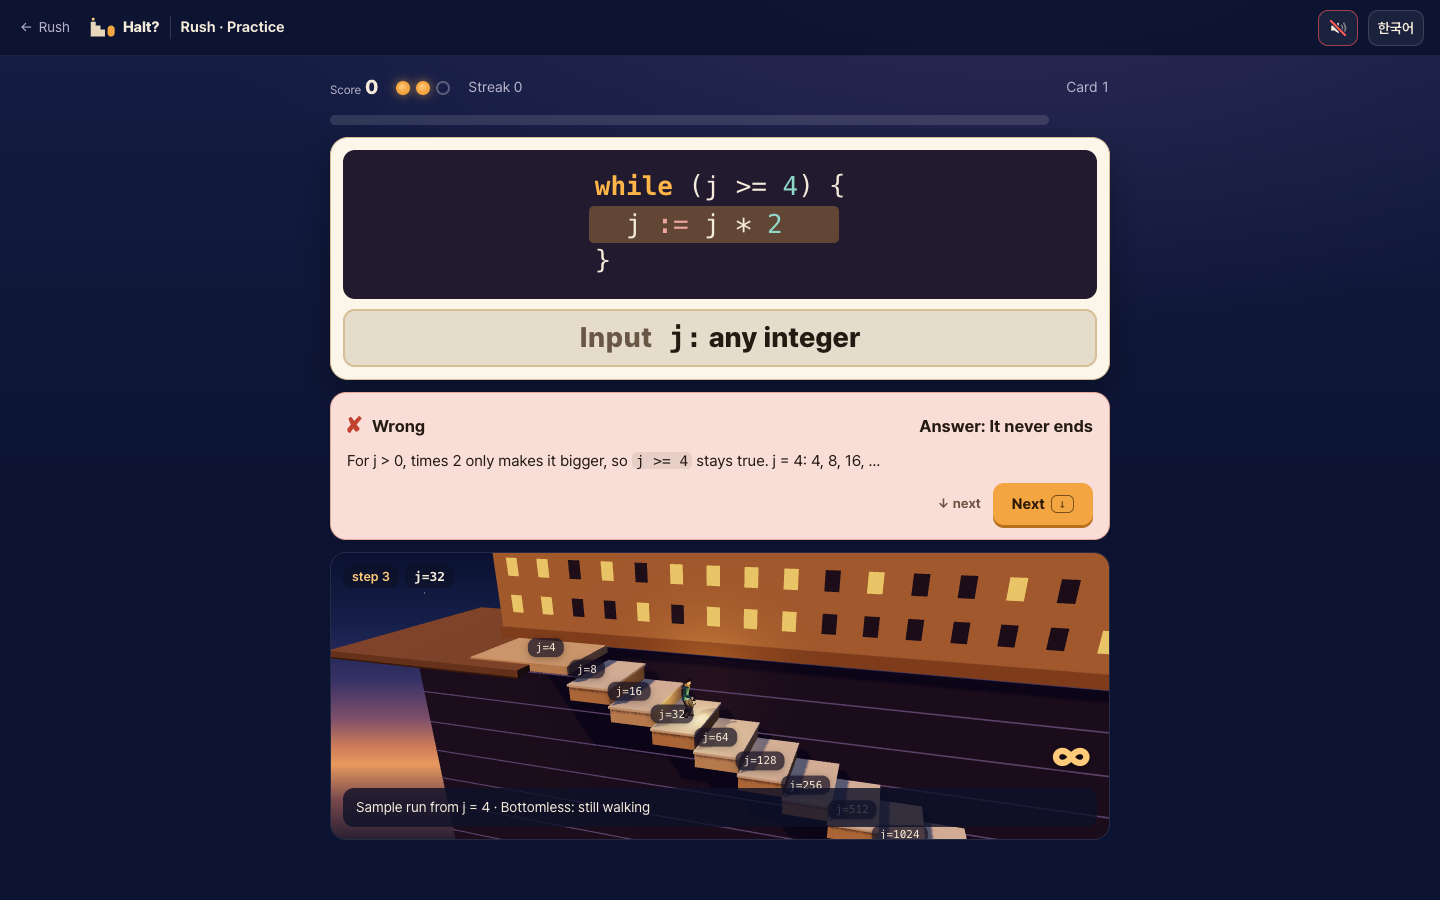
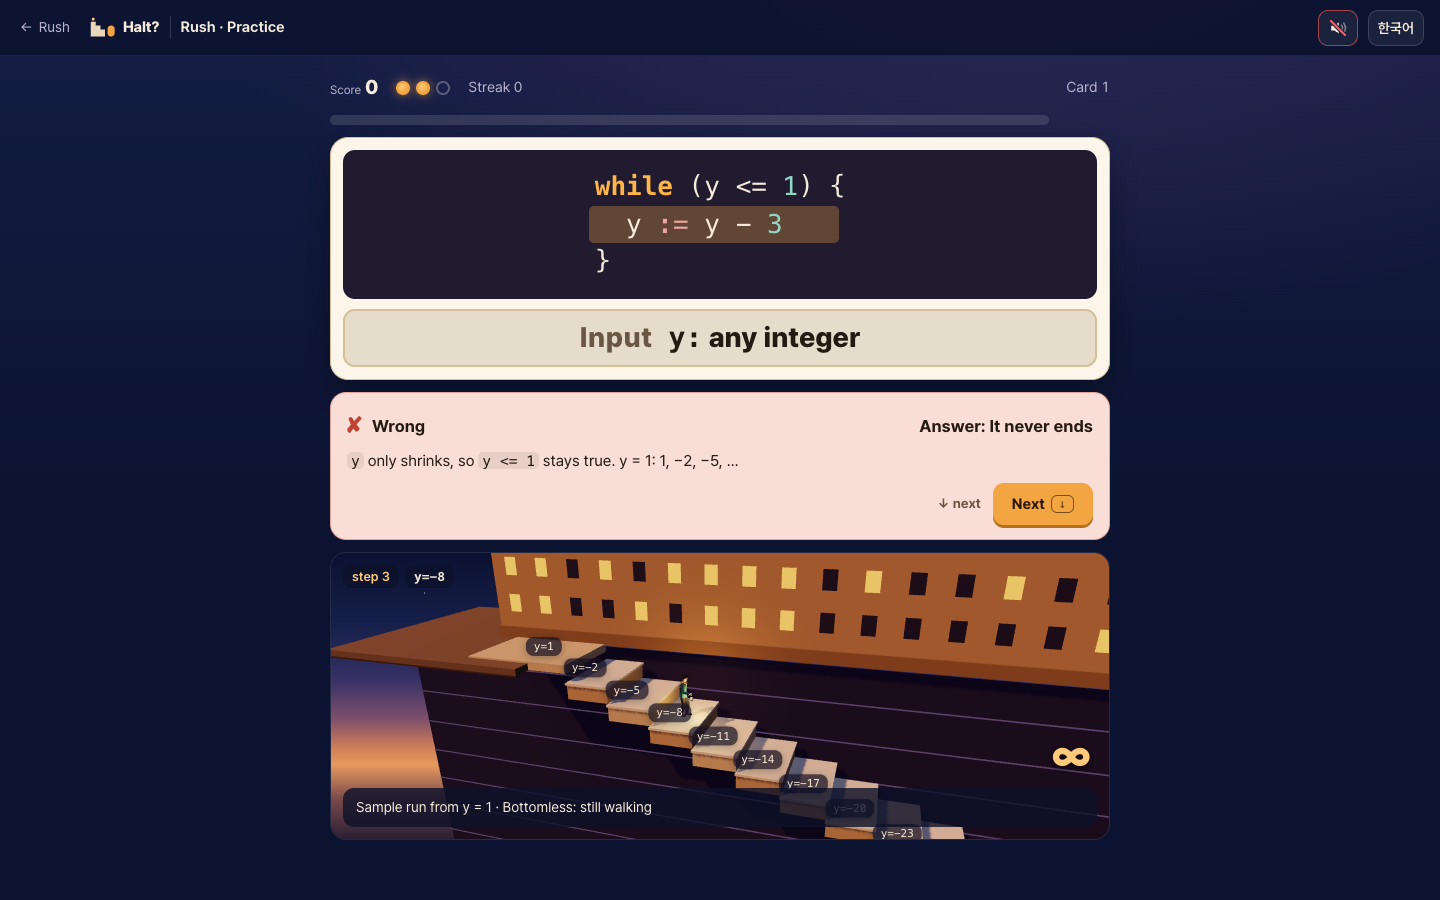
Hall of fame: top 10 only. README: no server section; English follows the author's Korean; rush screenshots show current cards

diff --git a/worker/src/index.ts b/worker/src/index.ts
@@ -3,7 +3,7 @@
 //   POST /nick        {token, nick}               → {nick}                    claim a nickname (or check it is ours)
 //   POST /run/start   {token, nick}               → {runId}                   claims or checks the nickname too
 //   POST /run/finish  {runId, token, answers}     → {score, cards, bestStreak, rank, best, bestRank, newBest, top}
-//   GET  /top?limit=50                            → [{rank, nick, score, cards, at}]   (cached 15 s)
+//   GET  /top?limit=10                            → [{rank, nick, score, cards, at}]   (cached 15 s)
 //   POST /me          {token, nick?}              → {nick, best, rank}
 //
 // The score of a run is recomputed here with the game's own rules; the client's numbers are never trusted.

diff --git a/worker/smoke.ts b/worker/smoke.ts
@@ -114,7 +114,7 @@ console.log(`ok   finish: score ${f1.json.score} (as the game), rank ${f1.json.r
 expect('run/finish the same run again', await req('POST', '/run/finish', { runId: runId1, token: tokenA, answers: first.answers }), 409, 'finished');
 
 // ------------------------------------------------------------ top and me
-const top = await req('GET', '/top?limit=50');
+const top = await req('GET', '/top?limit=10');
 expect('top', top, 200);
 checks++;
 assert.ok(Array.isArray(top.json) && top.json.length <= 50);

diff --git a/worker/src/logic.ts b/worker/src/logic.ts
@@ -11,8 +11,9 @@ export const START_GAP_MS = 3000;
 /** … and at most this many runs per token in 24 hours. */
 export const RUNS_PER_DAY = 300;
 export const DAY_MS = 24 * 60 * 60 * 1000;
-export const TOP_DEFAULT = 50;
-export const TOP_MAX = 50;
+/** The hall of fame lists the top 10 (author, 11/3: 50 was too many). */
+export const TOP_DEFAULT = 10;
+export const TOP_MAX = 10;
 
 export const ALLOWED_ORIGINS = ['https://halt-seven-delta.vercel.app'];
 

diff --git a/src/ui/rush.ts b/src/ui/rush.ts
@@ -47,8 +47,8 @@ export type RushMode = 'play' | 'practice';
 /** The last seconds of a card: the timer turns red. */
 const LOW_MS = 2000;
 /** Rows of the hall of fame shown at first, and after "show more". */
-const FAME_FIRST = 20;
-const FAME_ALL = 50;
+const FAME_FIRST = 10;
+const FAME_ALL = 10; // the hall of fame shows the top 10 (author, 11/3)
 
 const verdictLabel = (v: RushVerdict) => t(v === 'ends' ? 'verdictEnds' : 'verdictNever');
 

diff --git a/test/rushServer.test.ts b/test/rushServer.test.ts
@@ -76,7 +76,7 @@ describe('score server: abuse limits', () => {
   });
 
   it('the top list is at most 50 long', () => {
-    assert.deepEqual([topLimit(null), topLimit('20'), topLimit('500'), topLimit('-1'), topLimit('abc')], [50, 20, 50, 50, 50]);
+    assert.deepEqual([topLimit(null), topLimit('5'), topLimit('500'), topLimit('-1'), topLimit('abc')], [10, 5, 10, 10, 10]);
   });
 });
 

diff --git a/src/ui/fame.ts b/src/ui/fame.ts
@@ -7,7 +7,7 @@ import { t } from './i18n.ts';
 import { scores, type FameRow } from './scores.ts';
 
 /** How many rows the screen of its own loads. */
-const FAME_ROWS = 50;
+const FAME_ROWS = 10;
 
 /** "🏆 Hall of fame" heading. */
 export function fameTitle(tag: 'h1' | 'h2' = 'h2'): HTMLElement {

diff --git a/README.md b/README.md
@@ -140,7 +140,7 @@ Z3는 예시 실행뿐 아니라 반복 조건이 참인 모든 상태를 검사
 **명예의 전당**
 
 - 처음 들어갈 때 닉네임을 정하면, 판이 끝날 때 점수가 온라인 명예의 전당에 올라갑니다.
-- 명예의 전당은 닉네임마다 최고 점수를 보여 줍니다. 기록은 지워지지 않습니다. 상위 50명까지 나옵니다.
+- 명예의 전당은 닉네임마다 최고 점수를 보여 줍니다. 기록은 지워지지 않습니다. 상위 10명까지 나옵니다.
 - 닉네임은 2자에서 12자이고 한글, 영문, 숫자, 빈칸, `_`, `-`를 쓸 수 있습니다. 욕설은 막습니다.
 - 닉네임은 그 닉네임을 처음 쓴 기기에서만 쓸 수 있습니다.
 - 순위에 들어가지 않는 **연습**도 있습니다. 연습은 서버와 전혀 통신하지 않습니다.
@@ -154,7 +154,7 @@ Z3는 예시 실행뿐 아니라 반복 조건이 참인 모든 상태를 검사
 
 | 러시 모드 | 명예의 전당 |
 |---|---|
-| ![러시 연습: 카드의 코드 while (k < 9) { k := k + 2 − 5 }와 입력 조건 'k: 아무 정수'가 크게 나오고, 답한 뒤 틀렸다는 표시, 정답 '안 끝난다', 이유 한 줄이 보이며, 아래 무대에서는 사람이 k = 8부터 끝없이 내려간다](docs/screenshot-rush.png) | ![명예의 전당: 트로피가 붙은 제목 아래 순위, 닉네임, 점수, 카드 수가 가운데 정렬된 표](docs/screenshot-fame.png) |
+| ![러시 연습: 카드의 코드 while (n != 5) { n := -n }과 입력 조건 'n: 아무 정수'가 크게 나오고, 답한 뒤 틀렸다는 표시, 정답 '안 끝난다', 이유 한 줄이 보이며, 아래 무대에서는 사람이 n = 6부터 둥근 탑 위를 계속 돈다](docs/screenshot-rush.png) | ![명예의 전당: 트로피가 붙은 제목 아래 순위, 닉네임, 점수, 카드 수가 가운데 정렬된 표](docs/screenshot-fame.png) |
 
 ### 개념 ↔ 게임
 
@@ -187,22 +187,6 @@ Z3는 예시 실행뿐 아니라 반복 조건이 참인 모든 상태를 검사
 - 질의마다 Z3 시간 제한은 5초입니다. 넘으면 "판정기가 결정하지 못했어요"라고 알리고 시도 횟수에 넣지 않습니다.
 
 `/`와 `%`는 판정기와 실행기 모두 SMT-LIB/Z3 의미(유클리드 나눗셈, 나머지 ≥ 0)를 씁니다. 그래서 화면의 실행과 증명이 어긋나지 않습니다. SMT-LIB가 정하지 않은 0으로 나누기는 양쪽 모두 `x / 0 = 0`, `x % 0 = x`로 정했습니다.
-
-### 명예의 전당 서버
-
-명예의 전당은 무료 서버(Cloudflare Workers + D1 데이터베이스)에 있습니다. 코드는 `worker/`에 있습니다.
-
-- 게임은 점수를 보내지 않고 답 기록(카드, 고른 판정, 걸린 시간)만 보냅니다. 점수는 서버가 게임과 같은 규칙 코드(`src/core/rush.ts`)로 계산합니다.
-- 카드 순서가 난이도 순서에 맞는지, 걸린 시간의 합이 판을 시작한 뒤 실제로 흐른 시간보다 길지 않은지, 기록이 세 번째로 목숨을 잃은 답에서 정확히 끝나는지도 확인합니다.
-- 순위 판은 기기마다 3초에 한 번까지, 24시간에 300번까지 시작할 수 있습니다.
-- 기기를 구분하는 값은 기기에서 만든 무작위 값입니다. 서버에는 그 SHA-256 해시만 저장합니다. IP 주소는 저장하지 않습니다.
-- 요청은 `POST /nick`(닉네임 정하기), `POST /run/start`, `POST /run/finish`, `POST /me`(내 기록), `GET /top`(상위 50위, 15초 캐시) 다섯 가지입니다. 브라우저에서는 게임 주소와 로컬 개발 주소(localhost, 127.0.0.1)에서 연 페이지만 부를 수 있습니다(CORS). 브라우저 밖의 요청까지 막지는 않습니다.
-
-```sh
-cd worker
-npx -y wrangler@4 d1 execute halt-scores --remote --file=schema.sql   # 처음 한 번
-npx -y wrangler@4 deploy
-```
 
 ### 실행
 
@@ -240,7 +224,7 @@ MIT. [LICENSE](LICENSE)를 보세요.
 
 ### What it is
 
-**Halt?** is a browser puzzle game where you judge whether a loop ends, then prove why. It is also a competitive game: in rush mode you judge each card within 5 seconds, and when a run ends, your score goes to an online **hall of fame** with your nickname.
+<strong>Halt?</strong> is a browser puzzle game where you judge whether a loop ends, then prove why. It is also a competitive game: in rush mode you judge each card within 5 seconds, and when a run ends, your score goes to an online **hall of fame** with your nickname.
 
 A proof that a program is correct has two pieces: "if it ends, the result is right" (partial correctness) and "it does end" (termination). Halt? is for practising the second piece, **termination**. Proving termination sometimes needs invariants too, so you end up finding invariants along the way.
 
@@ -250,11 +234,9 @@ Proofs are checked by **Z3**, an SMT solver running in your browser, and by the 
 
 The title screen has three modes.
 
-- **Tutorial**: 14 pages that show what each part of the screen is, one at a time. Start here if you are new.
-- **Proof mode**: judge and prove 18 loops, one by one.
-- **Rush mode**: a race to judge loops quickly. 5 seconds a card, 3 lives.
-
-The 🏆 button at the top right opens the hall of fame.
+- **Tutorial**: a game simulation that shows what each part of the screen is, one at a time. Start here if you are new.
+- **Proof mode**: judge whether loops end and prove it, in 18 levels.
+- **Rush mode**: judge quickly whether programs end. 5 seconds a card, 3 lives. This is the competitive mode: nicknames and scores show in the hall of fame. The 🏆 button at the top right opens the hall of fame.
 
 ### Proof mode
 
@@ -262,7 +244,7 @@ The 🏆 button at the top right opens the hall of fame.
 
 A loop is drawn as a person walking down the stairs in front of a building. Each time the loop runs once, they go down one stair; when the loop ends, they leave by the exit.
 
-The loop condition is checked before every step, so if it is false from the start, they leave without taking a step (level 2 with n = −3).
+The loop condition is checked before every step, so if it is false from the start, they leave without taking a step (level 2 with `n = −3`).
 
 Every part of the stage matches the code.
 
@@ -292,7 +274,7 @@ The game draws every state of the sample runs as a stair as high as your express
 
 Z3 checks every state where the loop condition holds, not only the sample runs. If you are wrong, the counterexample Z3 found is played on the stage.
 
-If you chose **It never ends**, give a start that walks forever. If the walk comes back to a state it has been in, that is the proof. If no state repeats within 10,000 steps, you also write a **bottomless zone** Z (a recurrent set) that the run cannot leave, and Z3 checks it.
+If you chose **It never ends**, give a start that walks forever. If the walk comes back to a state it has been in, that is the proof. If no state repeats within 10,000 steps, you also write a **bottomless zone** Z (a recurrent set) that the run cannot leave. Z3 checks Z.
 
 | Verdict (step 1) | Proof you give (step 2) | Checked by |
 |---|---|---|
@@ -333,7 +315,7 @@ From level 10 you may write the steps left as a tuple such as `(floor, step)`. G
 
 ### Tutorial and guides
 
-The **tutorial** has 14 pages in five chapters (Start · Reading the stage · Step 1, verdict · Step 2, proof · Your turn).
+The **tutorial** has 14 pages in five parts (Start · Reading the stage · Step 1, verdict · Step 2, proof · Your turn).
 
 - It has you read the code first, then rings each part of the stage in amber, one at a time: the step count and values at the top left, the person and the stairs, the loop check, the exit, the height scale.
 - "One step ▶" moves the run one beat at a time (the check, or one stair down), and the lit line in the code and the step count move along.
@@ -350,7 +332,7 @@ The first example is level 1's loop on purpose. No other example is the same loo
 
 ### Rush mode and the hall of fame
 
-Short loop cards come one at a time, and for each you choose **It ends** (← or 1) or **It never ends** (→ or 2) within **5 seconds**. No proof. The verdicts mean what they mean in proof mode.
+Short loop cards come one at a time. For each you choose **It ends** (← or 1) or **It never ends** (→ or 2) within **5 seconds**. No proof. The verdicts mean what they mean in proof mode.
 
 **A run**
 
@@ -367,7 +349,7 @@ Short loop cards come one at a time, and for each you choose **It ends** (← or
 **Hall of fame**
 
 - Choose a nickname the first time, and when a run ends its score goes to the online hall of fame.
-- The hall of fame shows each nickname's best score and is never reset. It lists the top 50 players.
+- The hall of fame shows each nickname's best score. Records are never deleted. It lists the top 10.
 - A nickname has 2 to 12 characters: Hangul, Latin letters, digits, spaces, `_` and `-`. Slurs and profanity are blocked.
 - A nickname can only be used from the device that first used it.
 - There is also an unranked **practice** run, which never talks to the server.
@@ -381,7 +363,7 @@ Short loop cards come one at a time, and for each you choose **It ends** (← or
 
 | Rush mode | Hall of fame |
 |---|---|
-| ![Rush practice: the card while (j >= 4) { j := j * 2 } with the input condition "j: any integer" in large type; after the answer, the wrong mark, the verdict "It never ends" and a one-line reason, while the walker goes down forever from j = 4 on the stage below](docs/screenshot-rush-en.png) | ![Hall of fame: under a title with a trophy, a table of rank, nickname, score and cards, every cell centred](docs/screenshot-fame-en.png) |
+| ![Rush practice: the card while (y <= 1) { y := y - 3 } with the input condition "y: any integer" in large type; after the answer, the wrong mark, the verdict "It never ends" and a one-line reason, while the walker goes down forever from y = 1 on the stage below](docs/screenshot-rush-en.png) | ![Hall of fame: under a title with a trophy, a table of rank, nickname, score and cards, every cell centred](docs/screenshot-fame-en.png) |
 
 ### Concept ↔ game
 
@@ -415,22 +397,6 @@ The bottomless zone Z in a never-ends proof holds at the chosen start, keeps the
 
 `/` and `%` use SMT-LIB/Z3 semantics (Euclidean division, remainder ≥ 0) in both the judge and the simulator, so the run on screen and the proof never disagree. Division by zero, which SMT-LIB leaves open, is fixed to `x / 0 = 0` and `x % 0 = x` on both sides.
 
-### The hall-of-fame server
-
-The hall of fame lives on a free server (Cloudflare Workers with a D1 database). Its code is in `worker/`.
-
-- The game never sends a score, only the answer log (cards, verdicts, times). The server computes the score from it with the same rules the game uses (`src/core/rush.ts`).
-- It also checks that the cards follow the tier order, that the answer times add up to no more than the time that really passed since the run started, and that the log ends exactly at the answer that lost the third life.
-- A device can start a ranked run at most once every 3 seconds, and at most 300 times in 24 hours.
-- Devices are told apart by a random value made on the device; the server stores only its SHA-256 hash. No IP addresses are stored.
-- It answers five requests: `POST /nick` (choose a nickname), `POST /run/start`, `POST /run/finish`, `POST /me` (your record) and `GET /top` (top 50, cached for 15 s). In a browser, only pages opened from the game's address or a local development address (localhost, 127.0.0.1) may call it (CORS); requests from outside a browser are not blocked.
-
-```sh
-cd worker
-npx -y wrangler@4 d1 execute halt-scores --remote --file=schema.sql   # once
-npx -y wrangler@4 deploy
-```
-
 ### Run it
 
 ```sh
@@ -442,26 +408,9 @@ npm run gen-cards    # regenerate the rush cards (src/core/rushBank.ts)
 npm run serve:pages  # serves dist/ at http://localhost:4174/halt/ with no special headers, like GitHub Pages
 ```
 
-Add `?mute` to the address for silence, or `?flat` for the flat drawing instead of 3-D (used automatically without WebGL).
+Add `?mute` to the address for silence, or `?flat` for a flat drawing instead of the 3-D simulation (used automatically without WebGL).
 
 The game is served by [Vercel](https://vercel.com): a push to `main` builds and deploys it. `vercel.json` sends the cross-origin isolation headers (COOP `same-origin`, COEP `require-corp`). `.github/workflows/pages.yml` runs the tests and the build, then publishes only a redirect page at the old address `jkkms.github.io/halt/`.
-
-### Tech notes
-
-- Vite + TypeScript, plain DOM. The stage is drawn with [three.js](https://threejs.org) **0.186.1** and loaded only when a stage is first needed. Without WebGL, a flat SVG drawing stands in.
-- Runtime dependencies: `three`, `z3-solver` **5.3.1** and `coi-serviceworker` **0.1.7**, all pinned.
-- The font is [Pretendard](https://github.com/orioncactus/pretendard) **1.3.9** (SIL OFL 1.1), shipped with the game rather than loaded from a CDN: the official, unmodified variable-weight subsets split by unicode-range, so a browser downloads only the pieces for the characters on screen. License: [licenses/Pretendard-OFL-1.1.txt](licenses/Pretendard-OFL-1.1.txt) and `fonts/LICENSE.txt` in the build.
-- Sounds are generated with WebAudio; no sound files. `prefers-reduced-motion` shortens the animations.
-- Z3 needs SharedArrayBuffer, which needs a cross-origin isolated page. The game first ran on GitHub Pages with `coi-serviceworker` (a service worker that imitates the headers), but Safari itself does not turn on isolation for imitated headers, so the judge never started there. Hence the move to Vercel, which sends real headers. `coi-serviceworker` stays as a fallback where no headers are sent (e.g. `serve:pages`).
-- Z3's Emscripten loader and wasm and the font files are not bundled: `scripts/copy-assets.mjs` copies them to `public/`. The 35 MB wasm is fetched gzipped (about 8 MB) and unpacked in the browser. The page stays usable while it loads.
-- Progress (best stars per level, whether the tutorial was finished, which guides and intros were shown, the sound setting, rush bests and seen cards, the nickname and the device value) lives in `localStorage`; the game also works without it.
-- Layout
-  - `src/core/`: expression language, levels and tutorial-only programs, simulator, Z3 checks, game rules, the stairs the stage draws, tutorial and guides, rush cards and rules, nickname rules
-  - `src/ui/`: screens (title, tutorial, level select, level, rush, hall of fame, 3-D stage)
-  - `src/z3/`: browser Z3 loader
-  - `worker/`: the hall-of-fame server
-  - `scripts/`: asset copying, rush card generation
-  - `test/`: tests
 
 ### Credits
 
